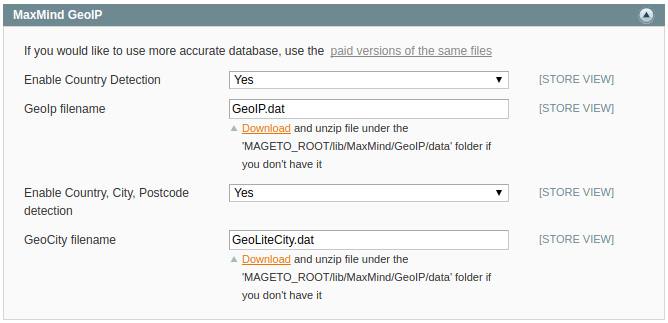
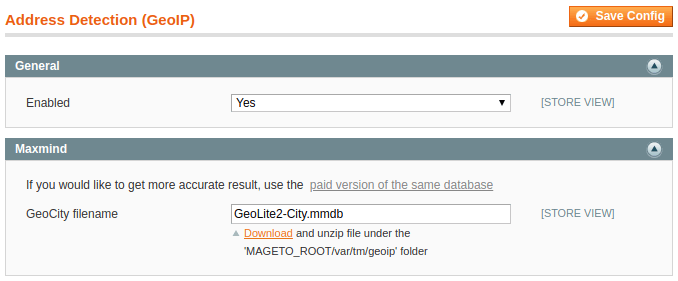
Firecheckout M1: new geoip screenshot

diff --git a/m1/extensions/firecheckout/configuration/address-detection-geoip.md b/m1/extensions/firecheckout/configuration/address-detection-geoip.md
@@ -8,12 +8,10 @@ category: Firecheckout
 
 # Address detection (GeoIP)
 
-These settings available at _Admin > System > Configuration > TM Checkout > Address detection (GeoIP)_
+These settings available at
+_Admin > System > Configuration > TM Checkout > Address detection (GeoIP)_
 page.
 
+> New \*.mmdb databases support added since Firecheckout 4.4.0
+
 ![General settings](/images/m1/firecheckout/configuration/address-detection-geoip/maxmind.png)
-
-Use links below to go to the sites where the data can be downloaded.
-
- -  [Country detection](http://geolite.maxmind.com/download/geoip/database/GeoLiteCountry/GeoIP.dat.gz)
- -  [City detection](http://geolite.maxmind.com/download/geoip/database/GeoLiteCity.dat.gz)
